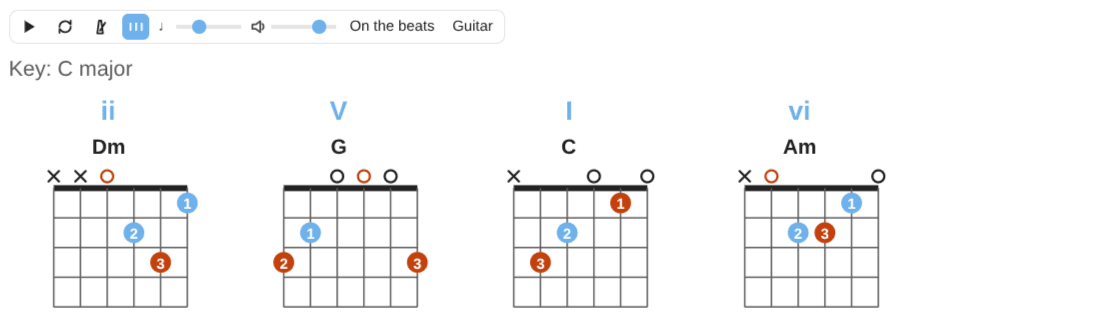
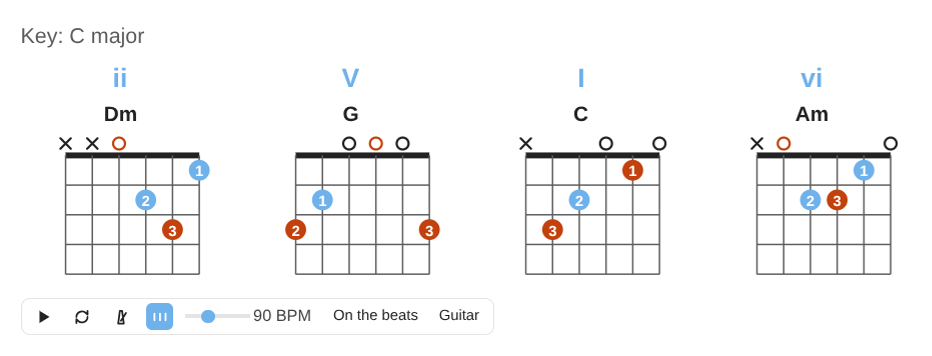
docs(plugin): progression and chart screenshots with the bar below (music-notation 0.14)
Claude-Session: https://claude.ai/code/session_01Bpb5ZovA92AACq7NMkuEce

diff --git a/docs/notation.md b/docs/notation.md
@@ -87,7 +87,7 @@ Songs in [ChordPro](https://www.chordpro.org/): chords in brackets inside the ly
 ```
 ````
 
-![The chord chart of Campfire Song: its key, tempo and time, a row of G, Em, C and D diagrams, the lyrics with their chords, and the play bar on top](images/notation-chord-chart.png)
+![The chord chart of Campfire Song: its key, tempo and time, a row of G, Em, C and D diagrams, the lyrics with their chords, and the play bar under them](images/notation-chord-chart.png)
 
 Want the chord shapes next to the song? `{diagrams}` draws every chord the song uses as a row above it, in the order they first appear (`{diagrams: bottom}` puts it under). `{define}` gives a chord your own shape, `{chord: Am}` draws one chord where you write it, and `{instrument: piano}` draws piano chords instead. With `{capo: 2}`, guitar diagrams show the shapes you play, with the capo drawn. See the [guide](https://dsebastien.github.io/music-notation/blocks.html#chord-diagrams-in-a-chart).
 
@@ -167,7 +167,7 @@ key: C
 ```
 ````
 
-![The progression ii V I vi in C major: each numeral over its chord name and guitar diagram (Dm, G, C, Am), and the play bar on top](images/notation-progression-light.png)
+![The progression ii V I vi in C major: each numeral over its chord name and guitar diagram (Dm, G, C, Am), and the play bar under them](images/notation-progression-light.png)
 
 - `key: G`, `key: Em` or `key: F# minor`. Chord names without a key get the likeliest one, shown with the others it could be.
 - `transpose: -2` moves the key, and `functions: yes` writes each chord's function under it (tonic, subdominant, dominant…).
